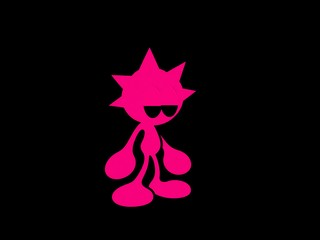
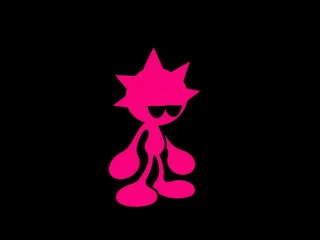
Nudge the idle character right a touch more.
Generated with [Devin](https://devin.ai)

Changed region(s): [[0.3125, 0.2042, 0.625, 0.875]]

diff --git a/friend/gizmo_friend/static/oddity-device.css b/friend/gizmo_friend/static/oddity-device.css
@@ -18,7 +18,7 @@ main{padding:0 16px}.simulator{width:min(650px,100%,calc((100svh - 180px)*1145/1
 .device-talk:active{cursor:grabbing}.device-talk:focus-visible{outline:2px solid #ffb5da;outline-offset:4px}
 .device-talk:before{content:'';position:absolute;inset:-10% -55% -10% -90%}
 .device-up:before,.device-down:before,.device-select:before{content:'';position:absolute;inset:0 -12px 0 -3px}
-.device .friend{position:absolute;left:30%;top:26%;width:34%;height:50%;display:grid;place-items:center;pointer-events:none}.device .friend img{height:100%;width:auto;object-fit:contain}
+.device .friend{position:absolute;left:31.5%;top:26%;width:34%;height:50%;display:grid;place-items:center;pointer-events:none}.device .friend img{height:100%;width:auto;object-fit:contain}
 .device .caption,.device .stage:not(.has-scene) .caption{font-size:3.6cqw;bottom:10%;left:8%;right:8%;line-height:1.25;max-height:34%}
 .device .listening,.device .stage-top,.device .stage-bottom{display:none}
 .device .play-blocked{font-size:3.2cqw;padding:2cqw 2.8cqw}

diff --git a/friend/gizmo_friend/static/oddity.html b/friend/gizmo_friend/static/oddity.html
@@ -7,7 +7,7 @@
   <link rel="icon" href="data:,">
   <link rel="stylesheet" href="/static/oddity-boot.css?v=gate14">
   <link rel="stylesheet" href="/static/oddity.css">
-  <link rel="stylesheet" href="/static/oddity-device.css?v=gate49">
+  <link rel="stylesheet" href="/static/oddity-device.css?v=gate50">
   <link rel="stylesheet" href="/static/oddity-experience.css">
   <link rel="preload" as="image" href="/static/device-reference-ptt-pressed.png">
   <link rel="preload" as="image" href="/static/oddity-character-half.png?v=char3">

diff --git a/body/assets/export_bundle.py b/body/assets/export_bundle.py
@@ -158,7 +158,7 @@ def home_base(source: Path, size: tuple[int, int]) -> Image.Image:
     box = (max(1, round(width * 0.58)), max(1, round(height * 0.72)))
     character.thumbnail(box, Image.Resampling.LANCZOS)
     canvas = Image.new("RGBA", size, (0, 0, 0, 255))
-    x = (width - character.width) // 2 - round(width * 0.03)
+    x = (width - character.width) // 2 - round(width * 0.02)
     y = round((height - character.height) / 2 + height * 0.015)
     canvas.alpha_composite(character, (x, y))
     return canvas
